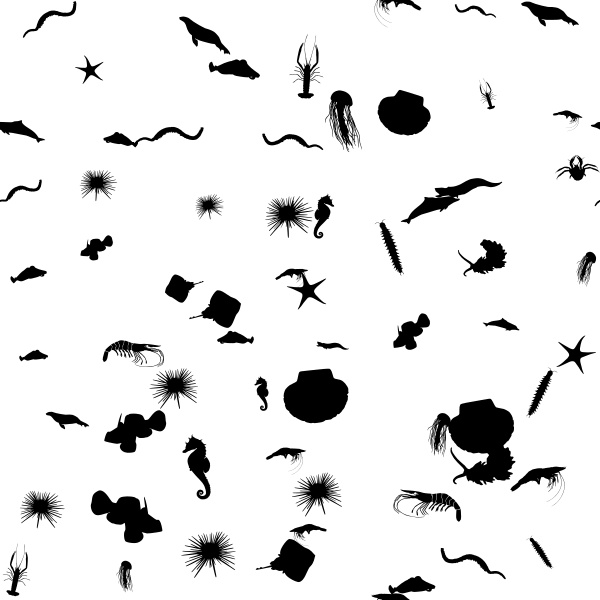
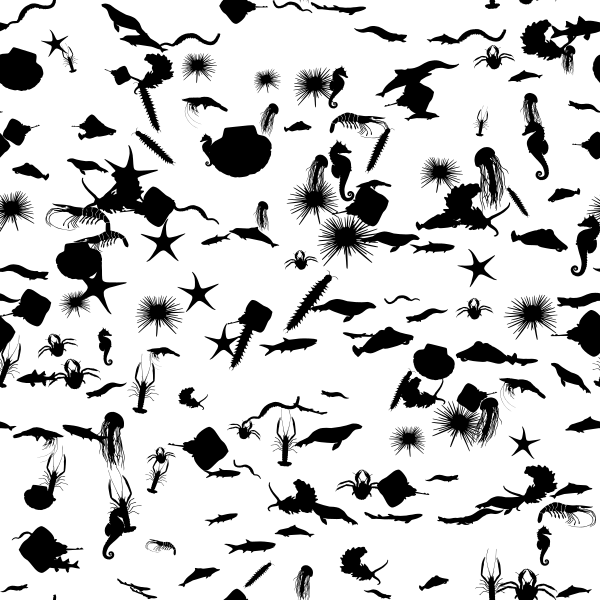
Landing copy + denser, flowing silhouette background (user request)
- Remove the hero sub-line paragraph from the front page.
- Make the marine-silhouette background much denser: build-marine-pattern grid
  8 -> 13 (64 -> 169 instances/tile), regenerated SVG + PNG.
- Animate it as a slow wave-like current flowing top-right -> bottom-left
  (mask-position drift so the repeating tile loops seamlessly; replaces the
  bounded sway). Honours prefers-reduced-motion via the global block.
- Apply the dense flowing field to the remaining non-live pages: layered into
  the landing UnderwaterBackdrop and the archive/browse page (MarineBackdrop).

diff --git a/src/app/globals.css b/src/app/globals.css
@@ -376,24 +376,37 @@ a {
  * Transform-only so it is GPU-composited and cheap; the host is oversized
  * (-inset-6) so the drift never reveals a tile edge. The global
  * prefers-reduced-motion block above neutralises it for users who opt out. */
+/* Decorative marine-pattern current: a slow, wave-like drift flowing from the
+ * top-right toward the bottom-left. Animates mask-position (not transform) so a
+ * repeating tile loops seamlessly without ever revealing an edge. One full tile
+ * (600px, matches MarinePattern TILE_PX) per cycle; the off-axis wobble at the
+ * quarter points gives it a wave rather than a straight slide. Neutralised for
+ * prefers-reduced-motion by the global block below. */
 @keyframes fs-pattern-sway {
-  0%,
-  100% {
-    transform: translate3d(0, 0, 0);
+  0% {
+    -webkit-mask-position: 0px 0px;
+    mask-position: 0px 0px;
   }
   25% {
-    transform: translate3d(11px, -7px, 0);
+    -webkit-mask-position: -105px 195px;
+    mask-position: -105px 195px;
   }
   50% {
-    transform: translate3d(3px, -13px, 0);
+    -webkit-mask-position: -345px 255px;
+    mask-position: -345px 255px;
   }
   75% {
-    transform: translate3d(-9px, -5px, 0);
+    -webkit-mask-position: -405px 495px;
+    mask-position: -405px 495px;
+  }
+  100% {
+    -webkit-mask-position: -600px 600px;
+    mask-position: -600px 600px;
   }
 }
 .fs-pattern-sway {
-  animation: fs-pattern-sway 16s ease-in-out infinite;
-  will-change: transform;
+  animation: fs-pattern-sway 42s linear infinite;
+  will-change: mask-position;
 }
 
 /* "Show where on screen" radar ping (FeedCard). Concentric rings expand from

diff --git a/src/components/landing/UnderwaterBackdrop.tsx b/src/components/landing/UnderwaterBackdrop.tsx
@@ -2,6 +2,7 @@
 
 import type { CSSProperties } from "react";
 import { useInView } from "@/lib/useInView";
+import { MarinePattern } from "@/components/MarinePattern";
 
 /**
  * Decorative underwater environment for the landing hero: drifting
@@ -61,6 +62,10 @@ export function UnderwaterBackdrop() {
     >
       {/* Depth gradient: bright at the surface, deepening into teal. */}
       <div className="absolute inset-0 bg-gradient-to-b from-white/0 via-teal-50/30 to-teal-600/15" />
+
+      {/* Dense drifting silhouette field — matches the other non-live pages
+          and flows top-right -> bottom-left. */}
+      <MarinePattern animated className="text-teal-700/[0.10]" />
 
       {/* God-ray light shafts. */}
       <div

diff --git a/src/app/feed/browse/page.tsx b/src/app/feed/browse/page.tsx
@@ -6,6 +6,7 @@ import { getServerSession } from "next-auth";
 import { authOptions } from "@/lib/auth";
 import { prisma } from "@/lib/prisma";
 import type { Prisma } from "@prisma/client";
+import { MarineBackdrop } from "@/components/MarineBackdrop";
 
 // P-18: answered-pill requires session, dynamic when signed in,
 // ISR-cached for anonymous. Next.js bypasses the ISR cache when it
@@ -121,6 +122,7 @@ export default async function FeedBrowsePage({
   }
 
   return (
+    <MarineBackdrop>
     <div className="flex-1 overflow-y-auto">
       <main
         id="main"
@@ -310,5 +312,6 @@ export default async function FeedBrowsePage({
         )}
       </main>
     </div>
+    </MarineBackdrop>
   );
 }

diff --git a/src/app/page.tsx b/src/app/page.tsx
@@ -131,9 +131,6 @@ export default async function HomePage() {
               >
                 Spot the species in real underwater footage.
               </h1>
-              <p className="mt-5 max-w-xl text-base leading-7 text-navy-900 md:text-lg">
-                Short clips from real PEBL deployments. Pick the species, see the reference ID, compare with the community, and help build a shared marine record, earning points for consecutive days.
-              </p>
               <div className="mt-8 flex flex-wrap items-center gap-3">
                 <Link
                   href="/feed"